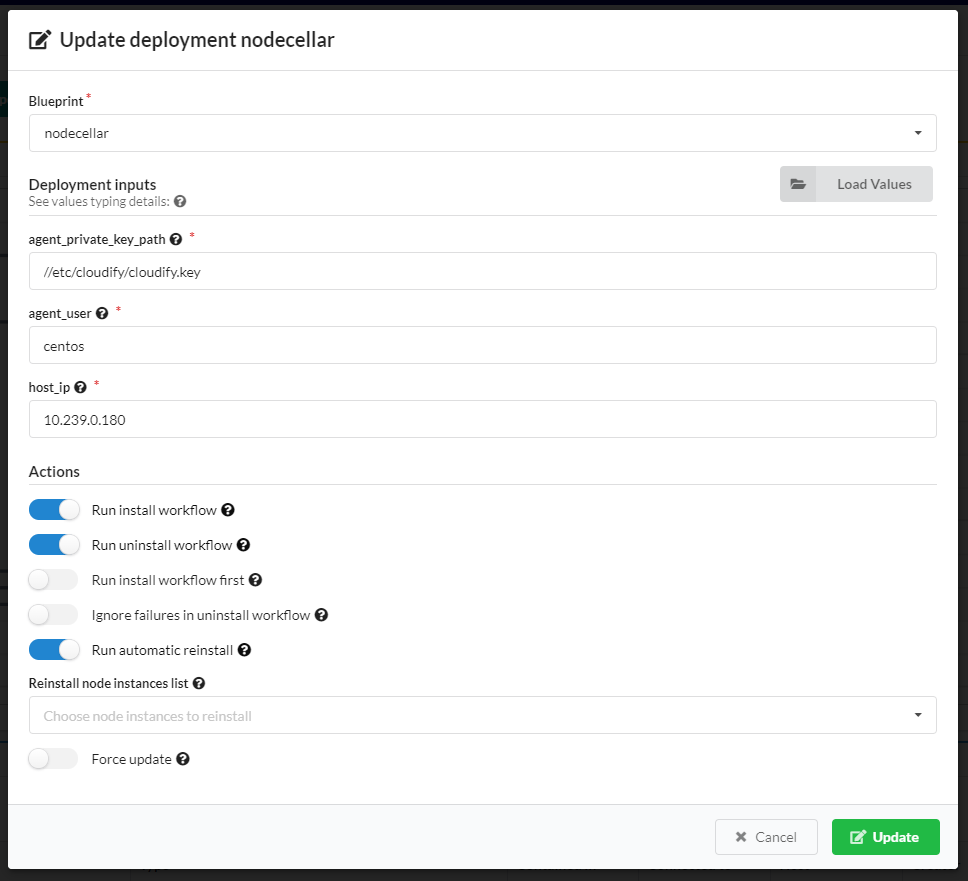
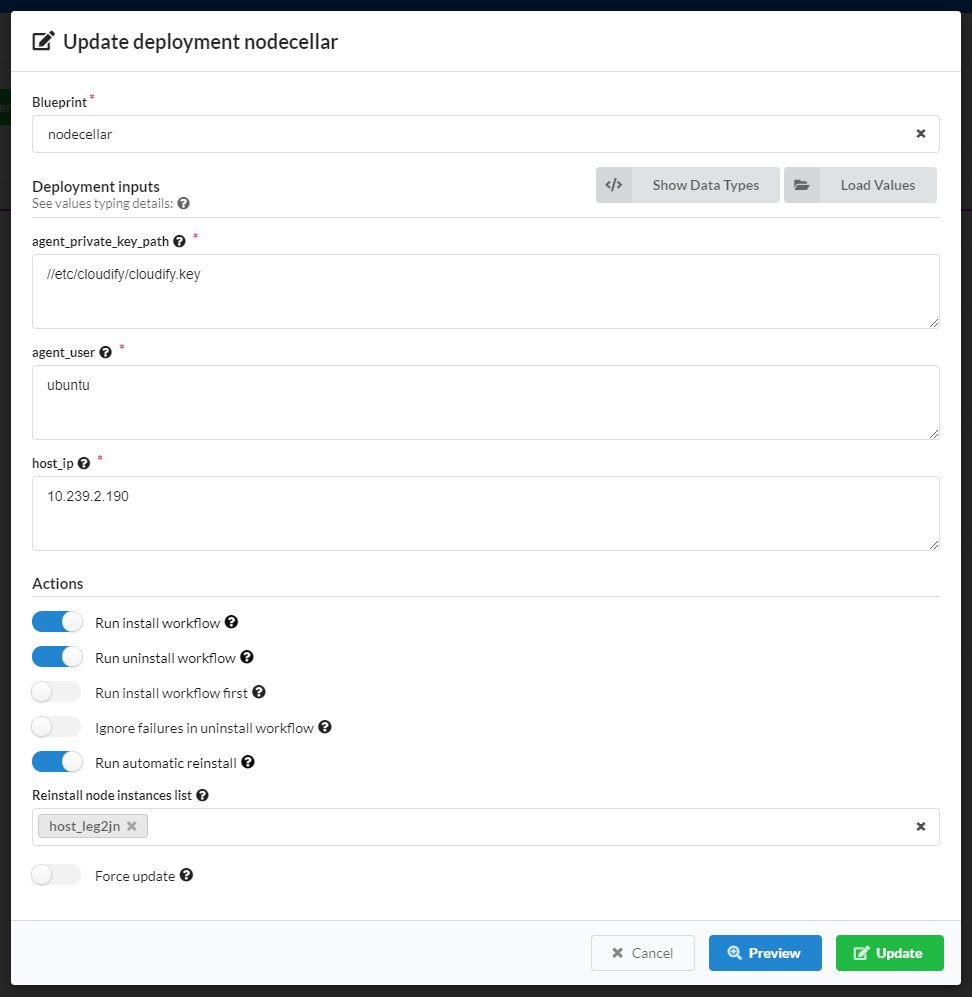
Updated description for Deployment Update (CY-1004 - Added possibility to preview Deployment Update in UI)

diff --git a/content/working_with/manager/update-deployment.md b/content/working_with/manager/update-deployment.md
@@ -52,8 +52,19 @@ In that window you can:
 * set new **Blueprint** for the deployment,
 * set new **Inputs** for the deployment either automatically using inputs YAML file or providing each input value directly to the form,
 * set specific **Actions** to be taken upon deployment update like enabling/disabling Install/Uninstall workflows on specific node instances.
-  
-If you want to get information regarding what has been changed during an update performed in the past:
+
+You can now choose if you want to do the update (**Update** button) or just preview (**Preview** button) what is going to be changed.
+
+In Preview mode you can see the following information:
+* blueprint changes,
+* inputs changes,
+* node instance changes,
+* actions steps to be taken.
+
+![Deployment Update Details Preview #1]( /images/manager/deployment-update-preview-1.png )
+![Deployment Update Details Preview #2]( /images/manager/deployment-update-preview-2.png )
+
+If you want to get the same information about update performed in the past:
 
  1. Go to **Executions** widget on specific deployment page 
  
